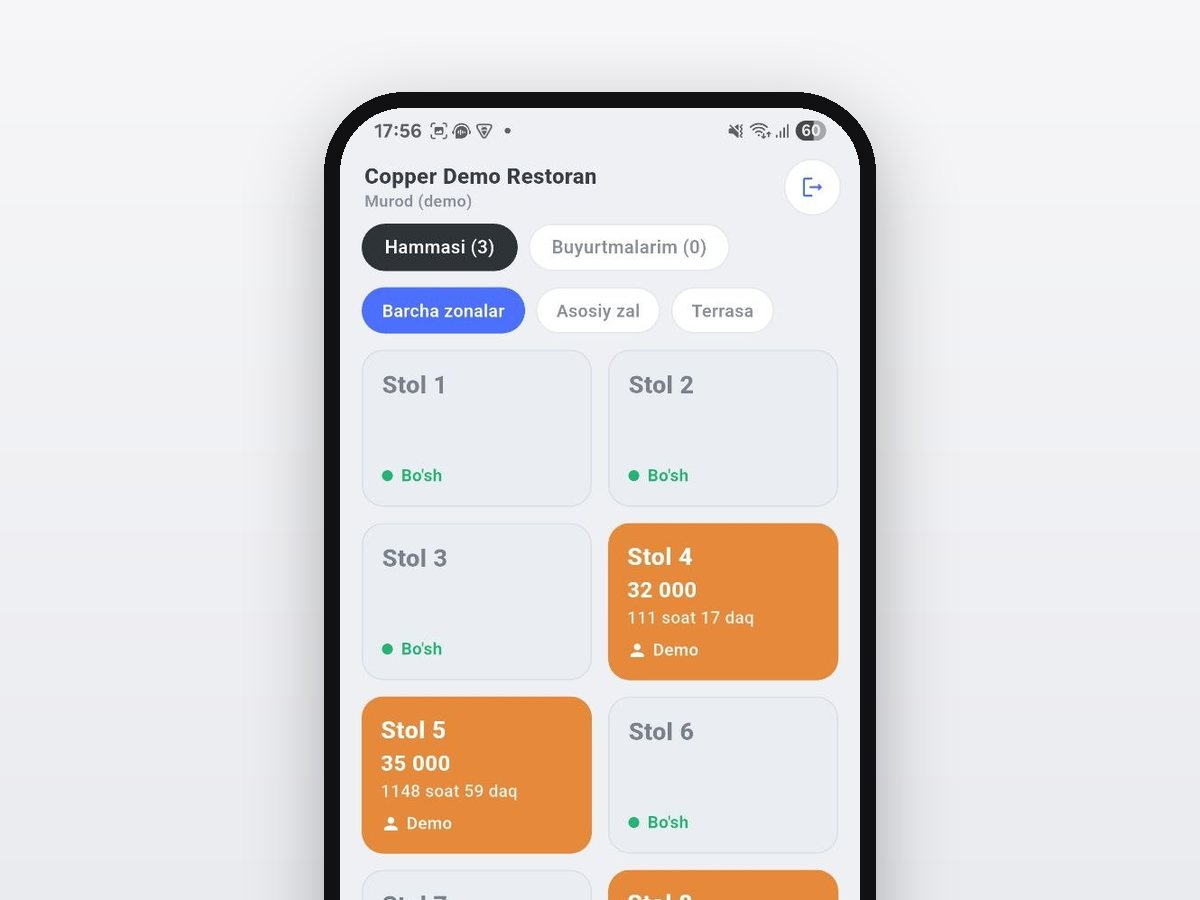
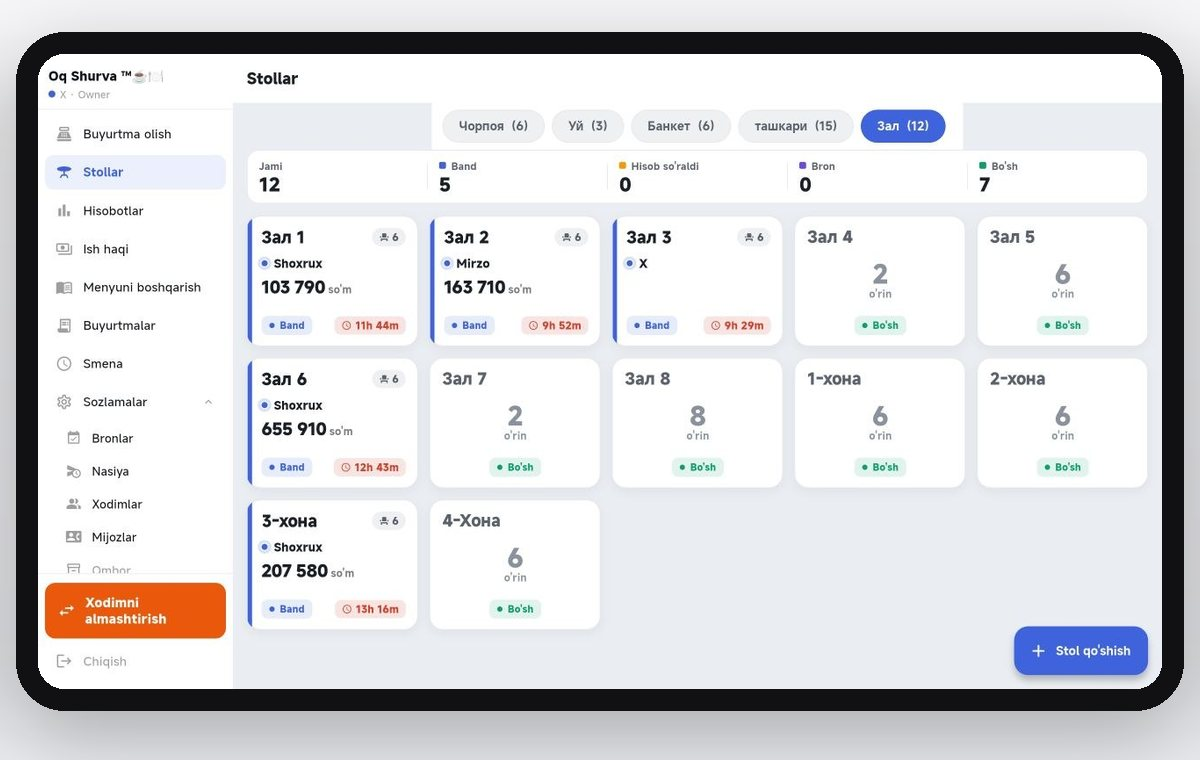
Tablet screenshots (Oq Shurva, owner agreed) for the floor and reports rows
Floor row now shows the tablet Tables screen; the empty Owner/profit row
shows tablet Reports (new fr2_alt key in all 3 languages, parity kept).
Menu row keeps the waiter-phone shot. make_screens.py gained a tablet frame
that crops the Android status and navigation bars.

diff --git a/index.html b/index.html
@@ -568,11 +568,11 @@
 </section>
 
 <!-- ─────────────── Feature rows (app screenshots) ─────────────── -->
-<!-- Screenshots: raw phone shots live in screens/, framed by tools/make_screens.py. TODO: the Owner-app row (fr2) still needs one. -->
+<!-- Screenshots: raw shots live in screens/, framed by tools/make_screens.py. -->
 <section id="closer">
   <div class="wrap">
     <div class="frow reveal">
-      <div class="fr-media"><img src="images/app-tables.jpg" alt="Zal ekrani" data-i18n-alt="fr1_cap" width="1200" height="900" loading="lazy"></div>
+      <div class="fr-media"><img src="images/app-tables.jpg" alt="Zal ekrani" data-i18n-alt="fr1_cap" width="1200" height="760" loading="lazy"></div>
       <div class="fr-text">
         <span class="eyebrow" data-i18n="fr_eyebrow">Yaqindan</span>
         <h3 data-i18n="fr1_h">Butun zal — bitta ekranda</h3>
@@ -585,7 +585,7 @@
       </div>
     </div>
     <div class="frow alt reveal">
-      <div class="fr-media"><div class="fr-ph"><div class="ic">📱</div><div class="t" data-i18n="fr2_cap">Egasi ilovasi</div></div></div>
+      <div class="fr-media"><img src="images/app-reports.jpg" alt="Hisobotlar ekrani" data-i18n-alt="fr2_alt" width="1200" height="760" loading="lazy"></div>
       <div class="fr-text">
         <span class="eyebrow" data-i18n="fr_eyebrow">Yaqindan</span>
         <h3 data-i18n="fr2_h">Foyda cho'ntagingizda</h3>
@@ -867,7 +867,7 @@ const I18N = {
     how3_h:"Sotishni boshlaysiz", how3_p:"Ertasi kundan to'liq ishlaysiz — biz aloqada bo'lamiz.",
     fr_eyebrow:"Yaqindan",
     fr1_h:"Butun zal — bitta ekranda", fr1_p:"Stollar, buyurtmalar va to'lovlar real vaqtda sinxron.", fr1_l1:"Zal xaritasi va zonalar", fr1_l2:"Stollarni ko'chirish va birlashtirish", fr1_l3:"Split va aralash to'lov", fr1_cap:"Zal ekrani",
-    fr2_h:"Foyda cho'ntagingizda", fr2_p:"Copper Owner bilan restoranni istalgan joydan kuzating.", fr2_l1:"Jonli tushum va foyda", fr2_l2:"Eng ko'p sotilgan taomlar", fr2_l3:"Xodimlar samaradorligi", fr2_cap:"Egasi ilovasi",
+    fr2_h:"Foyda cho'ntagingizda", fr2_p:"Copper Owner bilan restoranni istalgan joydan kuzating.", fr2_l1:"Jonli tushum va foyda", fr2_l2:"Eng ko'p sotilgan taomlar", fr2_l3:"Xodimlar samaradorligi", fr2_cap:"Egasi ilovasi", fr2_alt:"Hisobotlar ekrani",
     fr3_h:"Menyu va zaxira nazoratda", fr3_p:"Rasmlar, modifikatorlar va kunlik zaxira — barchasi qo'lingizda.", fr3_l1:"Rasmli menyu va modifikatorlar", fr3_l2:"Kilogramm bilan sotish", fr3_l3:"Kunlik zaxira va '86' ogohlantirish", fr3_cap:"Menyu ekrani",
     why_eyebrow:"Nega Copper", why_h2:"Nega aynan Copper?", why_p:"Qimmat tizimlar va qog'oz daftar bilan solishtiring.", col_others:"Boshqalar",
     w1_l:"Oylik narx", w1_a:"$59–130", w1_b:"299 000 so'mdan", w2_l:"Qurilma", w2_a:"Maxsus, qimmat", w2_b:"Oddiy Android",
@@ -943,7 +943,7 @@ const I18N = {
     how3_h:"Начинаете продавать", how3_p:"Со следующего дня работаете полностью — мы на связи.",
     fr_eyebrow:"Ближе",
     fr1_h:"Весь зал — на одном экране", fr1_p:"Столы, заказы и оплаты синхронны в реальном времени.", fr1_l1:"Карта зала и зоны", fr1_l2:"Перенос и объединение столов", fr1_l3:"Разделение и смешанная оплата", fr1_cap:"Экран зала",
-    fr2_h:"Прибыль в кармане", fr2_p:"С Copper Owner следите за рестораном откуда угодно.", fr2_l1:"Живая выручка и прибыль", fr2_l2:"Самые продаваемые блюда", fr2_l3:"Эффективность сотрудников", fr2_cap:"Приложение владельца",
+    fr2_h:"Прибыль в кармане", fr2_p:"С Copper Owner следите за рестораном откуда угодно.", fr2_l1:"Живая выручка и прибыль", fr2_l2:"Самые продаваемые блюда", fr2_l3:"Эффективность сотрудников", fr2_cap:"Приложение владельца", fr2_alt:"Экран отчётов",
     fr3_h:"Меню и запасы под контролем", fr3_p:"Фото, модификаторы и ежедневные остатки — всё под рукой.", fr3_l1:"Меню с фото и модификаторы", fr3_l2:"Продажа на вес", fr3_l3:"Остатки и стоп-лист", fr3_cap:"Экран меню",
     why_eyebrow:"Почему Copper", why_h2:"Почему именно Copper?", why_p:"Сравните с дорогими системами и бумажной тетрадью.", col_others:"Другие",
     w1_l:"Цена в месяц", w1_a:"$59–130", w1_b:"от 299 000 сум", w2_l:"Оборудование", w2_a:"Специальное, дорогое", w2_b:"Обычный Android",
@@ -1019,7 +1019,7 @@ const I18N = {
     how3_h:"You start selling", how3_p:"Fully running the next day — we stay in touch.",
     fr_eyebrow:"A closer look",
     fr1_h:"Your whole floor on one screen", fr1_p:"Tables, orders and payments sync in real time.", fr1_l1:"Floor map & zones", fr1_l2:"Move & merge tables", fr1_l3:"Split & mixed payment", fr1_cap:"Floor screen",
-    fr2_h:"Profit in your pocket", fr2_p:"With Copper Owner, watch your restaurant from anywhere.", fr2_l1:"Live revenue & profit", fr2_l2:"Best-selling dishes", fr2_l3:"Staff performance", fr2_cap:"Owner app",
+    fr2_h:"Profit in your pocket", fr2_p:"With Copper Owner, watch your restaurant from anywhere.", fr2_l1:"Live revenue & profit", fr2_l2:"Best-selling dishes", fr2_l3:"Staff performance", fr2_cap:"Owner app", fr2_alt:"Reports screen",
     fr3_h:"Menu & stock under control", fr3_p:"Photos, modifiers and daily stock — all at hand.", fr3_l1:"Photo menu & modifiers", fr3_l2:"Sell by weight", fr3_l3:"Daily stock & '86' alerts", fr3_cap:"Menu screen",
     why_eyebrow:"Why Copper", why_h2:"Why choose Copper?", why_p:"Compare it to expensive systems and the paper notebook.", col_others:"Others",
     w1_l:"Monthly price", w1_a:"$59–130", w1_b:"from 299,000 so'm", w2_l:"Hardware", w2_a:"Special, expensive", w2_b:"Any Android",

diff --git a/tools/make_screens.py b/tools/make_screens.py
@@ -2,19 +2,32 @@
 
     python3 tools/make_screens.py      (safe to re-run: reads screens/, writes images/)
 
-Each output is a 1200x900 card — the shape of the .fr-media slot — with the
-phone rising from the bottom edge, so only the top ~80% of the screen shows.
+Each output is a 1200-wide card (900 tall for phones, 760 for tablets) — the shape of the .fr-media slot — holding
+the screenshot inside a phone or tablet frame (see JOBS / DEVICE below).
 """
 import os
 from PIL import Image, ImageDraw, ImageFilter
 
 ROOT = os.path.dirname(os.path.dirname(os.path.abspath(__file__)))
-JOBS = [("waiter-tables.jpg", "app-tables.jpg"), ("waiter-menu.jpg", "app-menu.jpg")]
-W, H = 1200, 900
-SCREEN_W, BEZEL, TOP, R = 520, 16, 92, 64
+W = 1200
+# (source, output, device, crop box or None)
+#   phone : rises from the bottom edge, only the top ~80% of the screen shows
+#   tablet: whole screen, centred; Android status + navigation bars cropped off
+JOBS = [
+    ("waiter-menu.jpg", "app-menu.jpg", "phone", None),
+    ("tablet-tables.jpg", "app-tables.jpg", "tablet", (0, 30, 1280, 753)),
+    ("tablet-reports.jpg", "app-reports.jpg", "tablet", (0, 30, 1280, 753)),
+]
+DEVICE = {  # screen width, bezel, top offset (None = centre), corner radius, card height
+    "phone": (520, 16, 92, 64, 900),
+    "tablet": (1124, 22, None, 26, 760),
+}
 
-for src, out in JOBS:
+for src, out, kind, crop in JOBS:
+    SCREEN_W, BEZEL, TOP, R, H = DEVICE[kind]
     shot = Image.open(os.path.join(ROOT, "screens", src)).convert("RGB")
+    if crop:
+        shot = shot.crop(crop)
     sh = round(shot.height * SCREEN_W / shot.width)
     shot = shot.resize((SCREEN_W, sh), Image.LANCZOS)
 
@@ -27,6 +40,8 @@ for src, out in JOBS:
 
     pw, ph = SCREEN_W + 2 * BEZEL, sh + 2 * BEZEL
     x0 = (W - pw) // 2
+    if TOP is None:
+        TOP = (H - ph) // 2 - 8
     # shadow
     shadow = Image.new("L", (W, H + ph), 0)
     ImageDraw.Draw(shadow).rounded_rectangle((x0, TOP + 24, x0 + pw, TOP + 24 + ph), R + BEZEL, fill=70)
